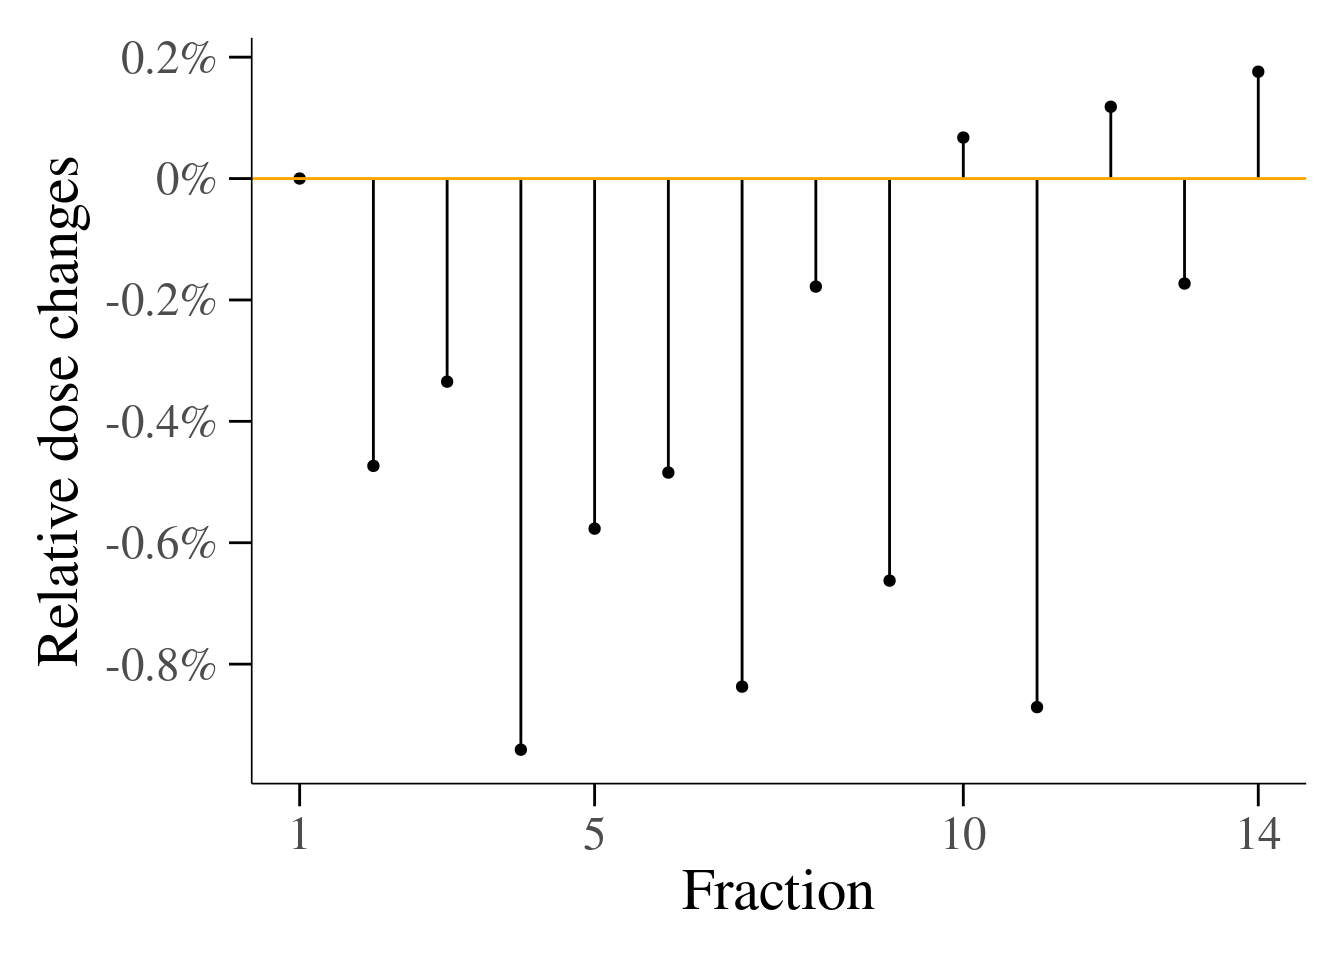
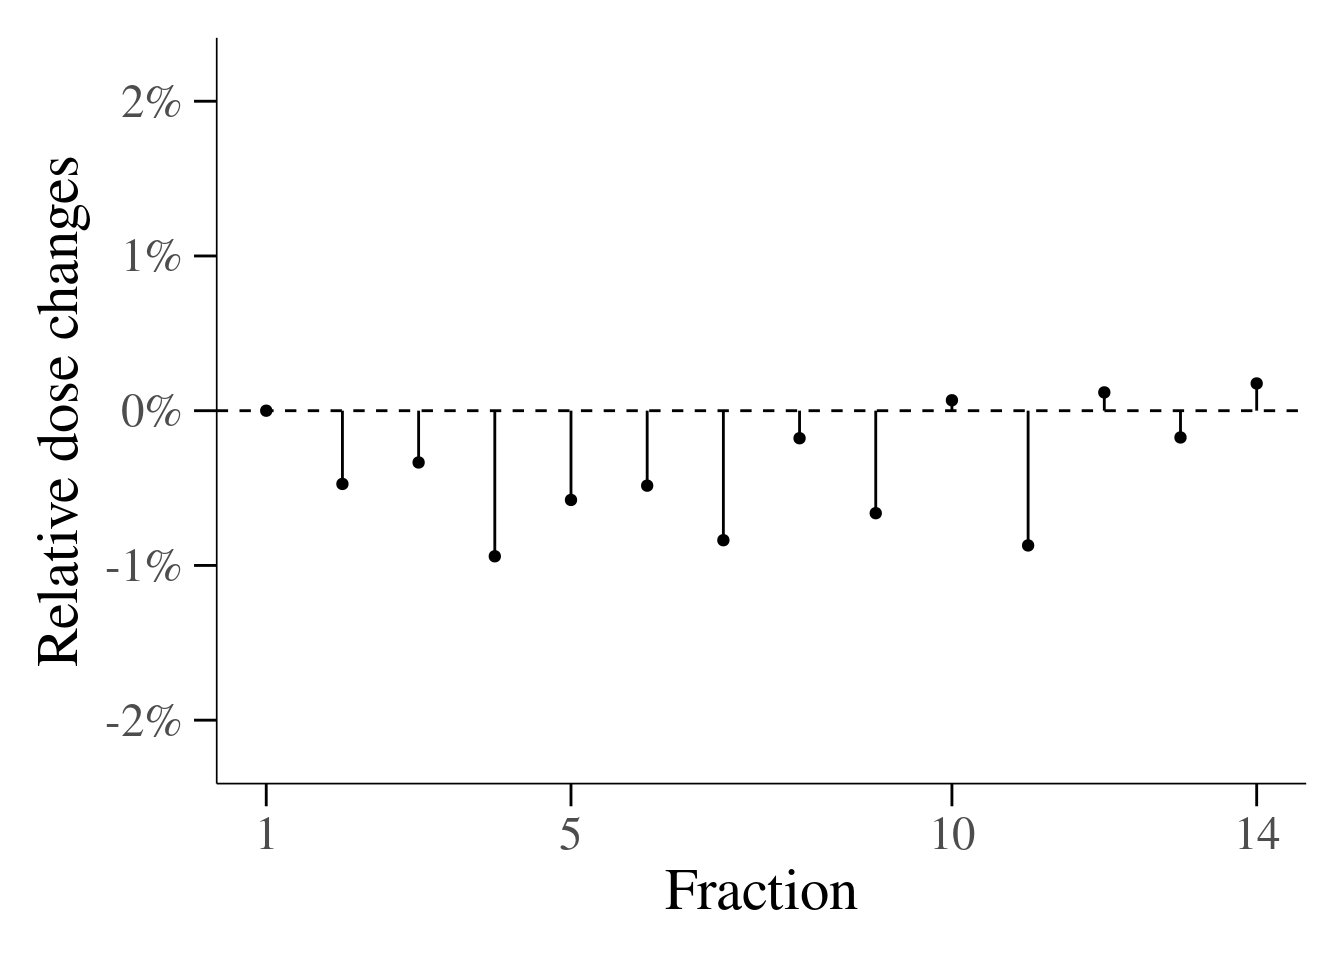
Build site.

diff --git a/docs/PatientX.html b/docs/PatientX.html
@@ -517,16 +517,16 @@ This reproducible <a href="http://rmarkdown.rstudio.com">R Markdown</a> analysis
 <div class="panel panel-default">
 <div class="panel-heading">
 <p class="panel-title">
-<a data-toggle="collapse" data-parent="#workflowr-checks" href="#strongRepositoryversionstrongahrefhttpsgithubcomdssrttnTesttree3f8c0ac1c60043456f1b002acd4e215fc09fd7batargetblank3f8c0aca"> <span class="glyphicon glyphicon-ok text-success" aria-hidden="true"></span> <strong>Repository version:</strong> <a href="https://github.com/dssrttn/Test/tree/3f8c0ac1c60043456f1b002acd4e215fc09fd7ba" target="_blank">3f8c0ac</a> </a>
+<a data-toggle="collapse" data-parent="#workflowr-checks" href="#strongRepositoryversionstrongahrefhttpsgithubcomdssrttnTesttree2d78656c07a1ce6c9a9fc0f7c3dbdfcde790dd0btargetblank2d78656a"> <span class="glyphicon glyphicon-ok text-success" aria-hidden="true"></span> <strong>Repository version:</strong> <a href="https://github.com/dssrttn/Test/tree/2d78656c07a1ce6c9a9fc0f7c3dbdfcde790dd0b" target="_blank">2d78656</a> </a>
 </p>
 </div>
[2 lines of base64/hex data omitted]
 <div class="panel-body">
 <p>
 Great! You are using Git for version control. Tracking code development and connecting the code version to the results is critical for reproducibility.
 </p>
 <p>
-The results in this page were generated with repository version <a href="https://github.com/dssrttn/Test/tree/3f8c0ac1c60043456f1b002acd4e215fc09fd7ba" target="_blank">3f8c0ac</a>. See the <em>Past versions</em> tab to see a history of the changes made to the R Markdown and HTML files.
+The results in this page were generated with repository version <a href="https://github.com/dssrttn/Test/tree/2d78656c07a1ce6c9a9fc0f7c3dbdfcde790dd0b" target="_blank">2d78656</a>. See the <em>Past versions</em> tab to see a history of the changes made to the R Markdown and HTML files.
 </p>
 <p>
 Note that you need to be careful to ensure that all relevant files for the analysis have been committed to Git prior to generating the results (you can use <code>wflow_publish</code> or <code>wflow_git_commit</code>). workflowr only checks the R Markdown file, but you know if there are other scripts or data files that it depends on. Below is the status of the Git repository when the results were generated:
@@ -543,6 +543,7 @@ Untracked files:
     Untracked:  Code commit to github
     Untracked:  README.html
     Untracked:  analysis/Patient 1.Rmd
+    Untracked:  code/Boxplot_DIL_minus_Boost_mean2.R
     Untracked:  code/lineplottheme.R
     Untracked:  data/1/
     Untracked:  data/10/
@@ -619,6 +620,40 @@ Message
 </tr>
 </thead>
 <tbody>
+<tr>
+<td>
+Rmd
+</td>
+<td>
+<a href="https://github.com/dssrttn/Test/blob/2d78656c07a1ce6c9a9fc0f7c3dbdfcde790dd0b/analysis/PatientX.Rmd" target="_blank">2d78656</a>
+</td>
+<td>
+Mein Vorname
+</td>
+<td>
+2020-08-08
+</td>
+<td>
+ohne histogramm
+</td>
+</tr>
+<tr>
+<td>
+html
+</td>
+<td>
+<a href="https://rawcdn.githack.com/dssrttn/Test/b64b94e88e92658d5c9c6a25087f283983a17762/docs/PatientX.html" target="_blank">b64b94e</a>
+</td>
+<td>
+Mein Vorname
+</td>
+<td>
+2020-08-08
+</td>
+<td>
+Build site.
+</td>
+</tr>
 <tr>
 <td>
 Rmd
@@ -724,7 +759,7 @@ library(jtools) # for linear regression output. not used so far
 #options(digits=3) # zeigt nur drei Zahlenwerte an
 source(&quot;code/plottheme.R&quot;)
 source(&quot;code/cbPalette.R&quot;)
-
+source(&quot;code/lineplottheme.R&quot;)
 
 
 DIL&lt;- read_csv2(&#39;data/1/DIL.csv&#39;)
@@ -923,19 +958,18 @@ Relative change
 <p>aes(x=1:nrow(speed1)</p>
 <pre class="r"><code>source(here::here(&quot;code/Lollipopplot_DIL_mean.R&quot;))
 
-
-ggplot(DIL_mean_rel,aes(x=1:nrow(DIL_mean_rel) 
-                      ,y=y )) + 
+ggplot(DIL_mean_rel,aes(x=1:nrow(DIL_mean_rel) #DIL_relabs$x
+                      ,y=y )) + #DIL_relabs$abschange)) +
    geom_segment( aes(x=1:nrow(DIL_mean_rel), xend=1:nrow(DIL_mean_rel), y=0, yend=y), color=&quot;black&quot;) + # Striche von der Hoehe y bis zu den Punkten
     geom_point() +
-scale_y_continuous(expand=c(0.1, .01), breaks = pretty_breaks(), labels=function(x) paste0(x,&quot;%&quot;)) + #labels=function(x) paste0(x,&quot;%&quot;) adds percent symbol, but without multiplying it with 100, like when one does: scale_y_continuous(labels = scales::percent)
+  scale_y_continuous(expand=c(0.1, .01), breaks = pretty_breaks(), labels=function(x) paste0(x,&quot;%&quot;)) + #labels=function(x) paste0(x,&quot;%&quot;) adds percent symbol, but without multiplying it with 100, like when one does: scale_y_continuous(labels = scales::percent)
 #   scale_x_continuous( breaks = pretty_breaks())  + # adds ticks automatically
      scale_x_continuous(breaks = c(1,5,10,nrow(DIL_mean_rel)))  + # adds only specific ticks
- geom_abline(intercept = 0, slope = 0, lty=1, col=&#39;orange&#39;) + # horizontale Linie ohne Steigung, da slope = 0 
+  geom_abline(intercept = 0, slope = 0, lty=1, col=&#39;orange&#39;) + # horizontale Linie ohne Steigung, da slope = 0 
  ggtitle(&quot;DIL - Relative dose changes in percent from the 1st fraction with DIL&quot;) +
   xlab(&quot;Fraction&quot;) + # X-Achsen-Beschriftung
   ylab(&quot;Relative dose changes&quot;) + # Y-Achsen-Beschriftung 
-    plottheme </code></pre>
+    plottheme</code></pre>
 <p><img src="figure/PatientX.Rmd/Lollipop%20plot%20DIL%20relative%20change-1.png" width="672" style="display: block; margin: auto;" /></p>
 <p>
 <button type="button" class="btn btn-default btn-xs btn-workflowr btn-workflowr-fig" data-toggle="collapse" data-target="#fig-no-spaces-Lollipop-plot-DIL-relative-change-1">
@@ -1175,13 +1209,16 @@ ggplot(Boost_mean_rel,aes(x=1:nrow(Boost_mean_rel)
                         ,y=y )) +
   geom_segment( aes(x=1:nrow(Boost_mean_rel), xend=1:nrow(Boost_mean_rel), y=0, yend=y), color=&quot;black&quot;) + # Striche von der Hoehe y bis zu den Punkten
   geom_point() +
-   scale_y_continuous(breaks = pretty_breaks(), labels=function(x) paste0(x,&quot;%&quot;)) + #labels=function(x) paste0(x,&quot;%&quot;) adds percent symbol, but without multiplying it with 100, like when on e does: scale_y_continuous(labels = scales::percent)
+  #geom_line() +
+  expand_limits(y = c(-2, 2)) +
+   scale_y_continuous(breaks = pretty_breaks(), labels=function(x) paste0(x,&quot;%&quot;)) + #labels=function(x) paste0(x,&quot;%&quot;) adds percent symbol, but without multiplying it with 100, like when one does: scale_y_continuous(labels = scales::percent)
   scale_x_continuous(breaks = c(1,5,10,nrow(Boost_mean_rel)))  + # adds only specific ticks
- geom_abline(intercept = 0, slope = 0, lty=1, col=&#39;orange&#39;) + # horizontale Linie ohne Steigung, da slope = 0 
+  geom_abline(intercept = 0, slope = 0, lty=2) + # horizontale Linie ohne Steigung, da slope = 0 
   ggtitle(&quot;Boost - Relative dose changes in percent from the 1st fraction with Boost&quot;) +
   xlab(&quot;Fraction&quot;) + # X-Achsen-Beschriftung
   ylab(&quot;Relative dose changes&quot;) + # Y-Achsen-Beschriftung 
-  plottheme</code></pre>
+  plottheme +
+  lineplottheme</code></pre>
 <p><img src="figure/PatientX.Rmd/Lollipop%20plot%20Boost%20relative%20change-1.png" width="672" style="display: block; margin: auto;" /></p>
 <p>
 <button type="button" class="btn btn-default btn-xs btn-workflowr btn-workflowr-fig" data-toggle="collapse" data-target="#fig-no-spaces-Lollipop-plot-Boost-relative-change-1">
